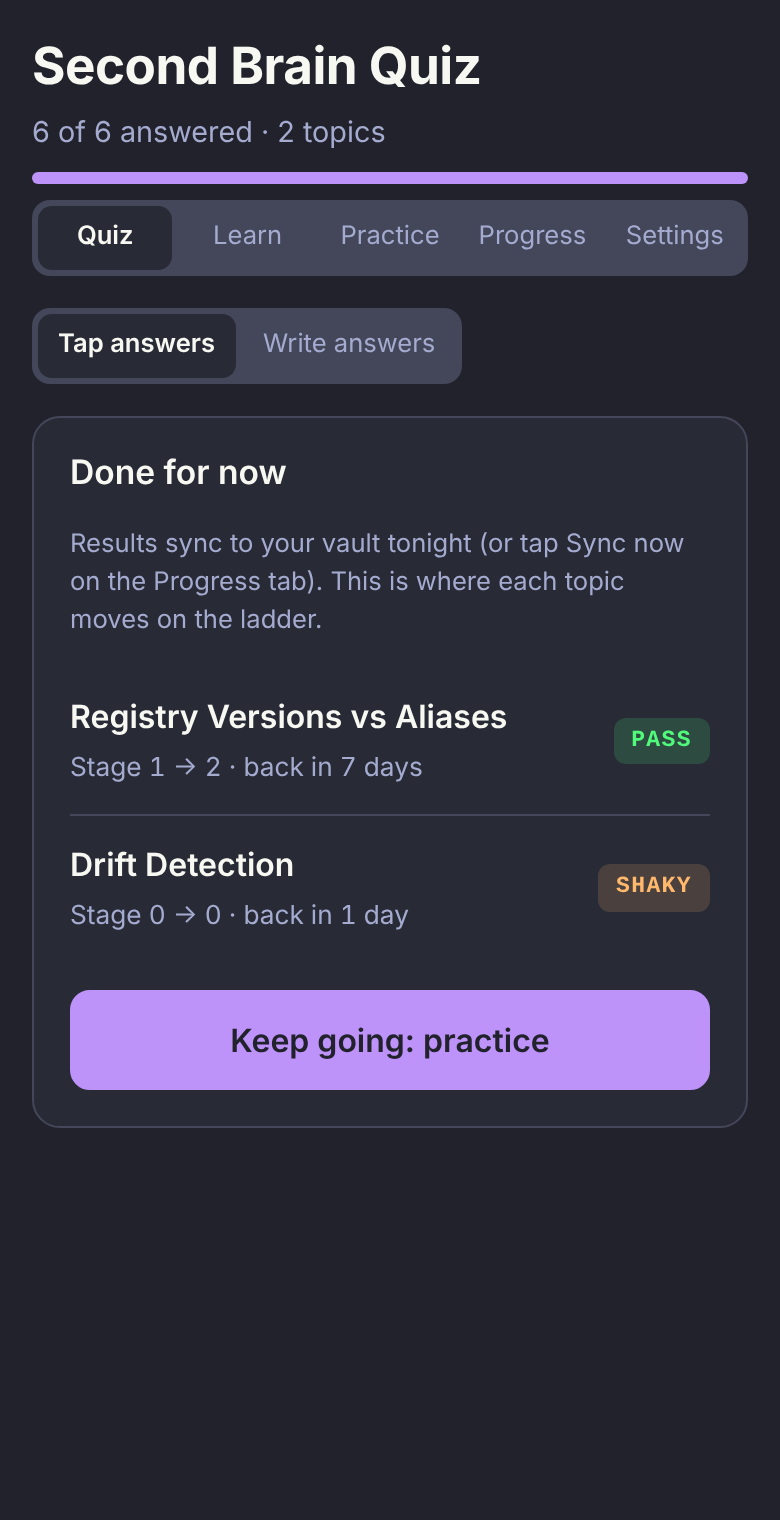
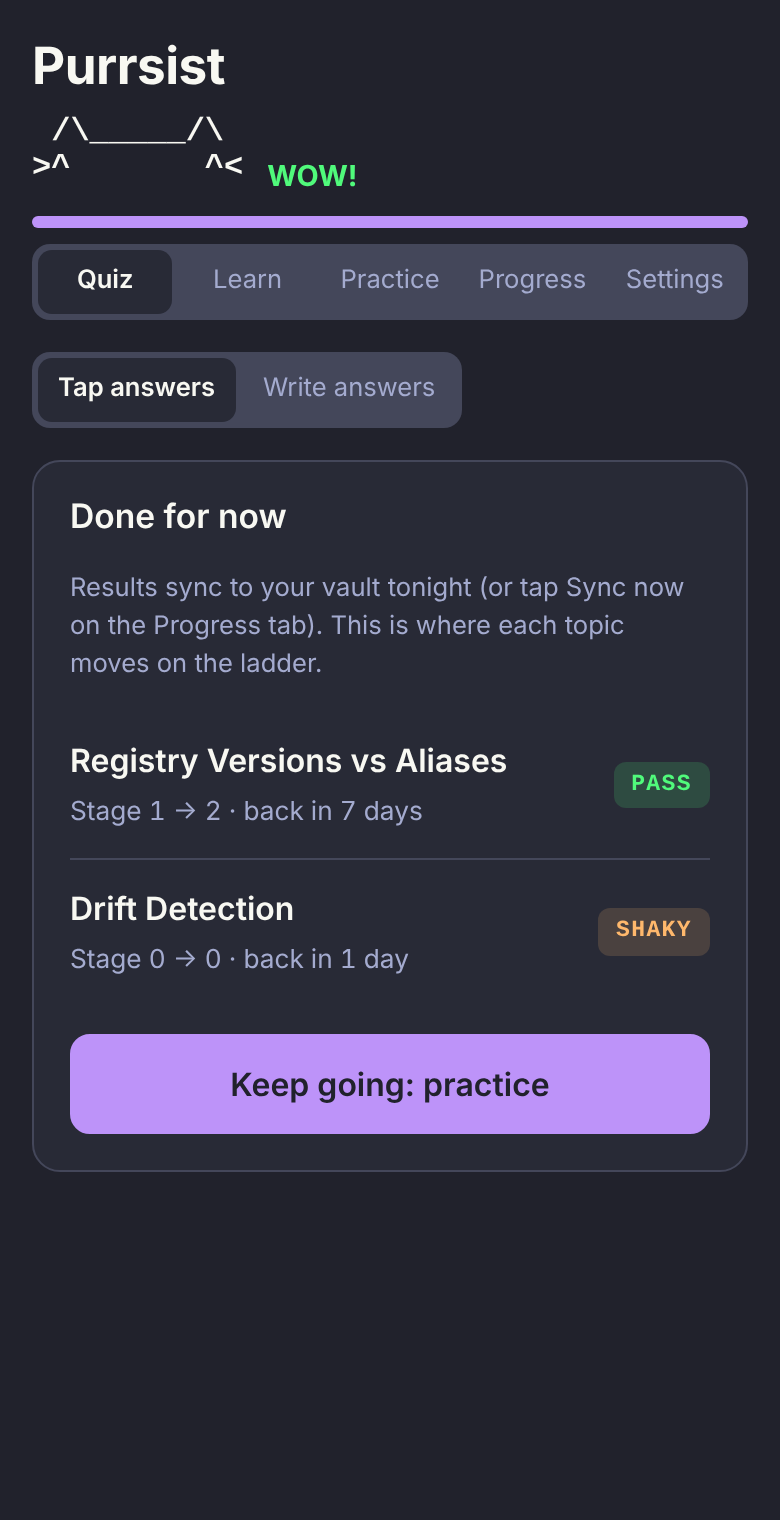
v1.17.0: Purrsist - text-art cat that reacts to answers, new name, screenshots retaken
Claude-Session: https://claude.ai/code/session_01EMdQBoW5wE4vVuz75Yu5Xb

Changed region(s): [[0.0308, 0.0309, 0.9846, 0.773], [0.8308, 0.3401, 0.8615, 0.402]]

diff --git a/quiz/quiz.html b/quiz/quiz.html
@@ -1,4 +1,4 @@
-<title>Second Brain Quiz</title>
+<title>Purrsist</title>
 <link rel="preconnect" href="https://fonts.googleapis.com">
 <link rel="stylesheet" href="https://fonts.googleapis.com/css2?family=Bricolage+Grotesque:opsz,wght@12..96,600;12..96,700&family=IBM+Plex+Sans:wght@400;500;600&family=IBM+Plex+Mono:wght@500&display=swap">
 <style>
@@ -73,6 +73,24 @@ h1{font:700 1.6rem/1.1 var(--display);margin:0;text-wrap:balance;letter-spacing:
 .flag[disabled]{opacity:1;color:var(--good);border-color:var(--good)}
 .flagmenu{display:flex;flex-wrap:wrap;gap:6px}.flagmenu button{min-height:34px;padding:6px 10px;font-size:.8rem;text-align:center}
 .pending{color:var(--warn);font-size:.82rem;margin:0}
+/* ---- the cat: monospace text art so it always lines up ---- */
+.tcat{display:flex;align-items:flex-end;gap:12px;margin:2px 0 0;min-height:2.6em}
+.tcat .art{margin:0;font:600 16px/1.15 ui-monospace,"SF Mono",Menlo,Consolas,monospace;color:var(--ink);white-space:pre;flex:none}
+.tcat .say{margin:0;font-size:.9rem;line-height:1.3;padding-bottom:1px;min-width:0;color:var(--muted)}
+.tcat .say .sub{display:inline}
+.tcat .react{display:none;font-weight:700}
+.tcat.reacting .sub{display:none}.tcat.reacting .react{display:inline}
+.c-good{color:var(--good)}.c-bad{color:var(--bad)}.c-combo{color:var(--pink)}.c-level{color:var(--warn)}.c-meh{color:var(--warn)}
+.tcat.idle .art{animation:catbob 2.6s steps(2) infinite}@keyframes catbob{50%{transform:translateY(-1px)}}
+.tcat.hop .art{animation:cathop .45s steps(3) 2}@keyframes cathop{50%{transform:translateY(-6px)}}
+.tcat.shake .art{animation:catshake .4s steps(4) 2}@keyframes catshake{25%{transform:translateX(-4px)}75%{transform:translateX(4px)}}
+.tcat.wiggle .art{animation:catwig .35s steps(2) 4}@keyframes catwig{0%{transform:rotate(-5deg)}50%{transform:rotate(5deg)}}
+.catpop{position:fixed;inset:0;display:grid;place-items:center;pointer-events:none;z-index:50}
+.catpop div{background:var(--surface);border:2px solid var(--warn);border-radius:16px;padding:18px 26px;text-align:center;box-shadow:0 10px 40px rgba(0,0,0,.35);animation:catpop 1.8s steps(8) forwards}
+.catpop pre{margin:0;font:700 26px/1.15 ui-monospace,"SF Mono",Menlo,Consolas,monospace;color:var(--ink)}
+.catpop b{display:block;margin-top:8px;font:800 1.3rem/1 ui-monospace,Menlo,monospace;color:var(--warn);letter-spacing:.06em}
+@keyframes catpop{0%{opacity:0;transform:scale(.7)}15%{opacity:1;transform:scale(1.08)}25%,80%{opacity:1;transform:scale(1)}100%{opacity:0;transform:scale(.95)}}
+@media (prefers-reduced-motion: reduce){.tcat .art,.catpop div{animation:none!important}}
 .chip{font:500 .72rem/1 var(--mono);letter-spacing:.06em;text-transform:uppercase;padding:6px 8px;border-radius:6px;background:var(--accent-soft);color:var(--pink)}
 .chip.plain{background:transparent;color:var(--muted);padding-inline:0}
 .topic{font:600 1.05rem/1.3 var(--display);margin:0}
@@ -193,8 +211,8 @@ textarea{font:inherit;width:100%;box-sizing:border-box;min-height:120px;border-r
 
 <div class="wrap">
   <header>
-    <h1>Second Brain Quiz</h1>
-    <p class="sub" id="sub">Loading your questions…</p>
+    <h1>Purrsist</h1>
+    <div class="tcat idle" id="tcat"><pre class="art" id="catart" aria-hidden="true"></pre><p class="say"><span class="sub" id="sub">Loading your questions…</span><span class="react" id="catsay" aria-live="polite"></span></p></div>
     <p class="pending" id="pending" hidden></p>
     <div class="bar" aria-hidden="true"><i id="prog"></i></div>
     <div class="mode tabs" id="tabs" role="tablist" aria-label="View">
@@ -283,6 +301,7 @@ function render() {
   const answered = Q.length - pending.length;
   const topics = [...new Set(Q.map(q => q.topic))];
   document.getElementById("prog").style.width = Q.length ? (answered / Q.length * 100) + "%" : "0";
+  catMood(Q.length && !pending.length ? "sleepy" : "idle");
   document.getElementById("sub").textContent = Q.length
     ? `${answered} of ${Q.length} answered · ${topics.length} topic${topics.length === 1 ? "" : "s"}`
     : "Nothing loaded yet";
@@ -514,9 +533,35 @@ function flagBtn(q, card) {
   return b;
 }
 
+// ---------- The cat: reacts to answers, then goes back to showing your status ----------
+const CAT_EYES = { idle:"•  •", sleepy:"-  -", right:"^  ^", almost:"o  o", wrong:"T  T", combo:"*  *", timeout:"O  O", level:"★  ★", cleared:"^  ^" };
+const CAT_SAY = { right:["WOW!", "nice one", "big brain", "yes!!"], almost:["nearly!", "so close"], wrong:["oops", "nearly", "we go again"],
+  combo:["x3 combo!", "on fire", "unstoppable"], timeout:["too slow!"], level:["LVL UP!"], cleared:["cleared! ✓"] };
+const CAT_CLS = { right:"c-good", almost:"c-meh", wrong:"c-bad", combo:"c-combo", timeout:"c-bad", level:"c-level", cleared:"c-good" };
+const CAT_ANIM = { right:"hop", almost:"shake", wrong:"shake", combo:"wiggle", timeout:"shake", level:"hop", cleared:"hop" };
+const catArt = eyes => ` /\\_____/\\\n>${eyes.replace(/  /, "       ")}<`;
+let catBase = "idle", catTimer = null;
+function catDraw(mood) { const a = document.getElementById("catart"); if (a) a.textContent = catArt(CAT_EYES[mood] || CAT_EYES.idle); }
+function catMood(m) { catBase = m; if (!document.getElementById("tcat").classList.contains("reacting")) catDraw(m); }
+function catReact(mood) {
+  const box = document.getElementById("tcat"), say = document.getElementById("catsay");
+  clearTimeout(catTimer);
+  const pool = CAT_SAY[mood] || [""];
+  say.textContent = pool[Math.floor(Math.random() * pool.length)]; say.className = "react " + (CAT_CLS[mood] || "");
+  box.className = "tcat reacting " + (CAT_ANIM[mood] || "idle"); catDraw(mood);
+  if (mood === "level") catBig("LVL UP!");
+  catTimer = setTimeout(() => { box.className = "tcat idle"; catDraw(catBase); }, 1600);
+}
+function catBig(text) {                       // milestone pop-up in the middle of the screen
+  const w = el("div", "catpop"), d = el("div"), pre = el("pre"); pre.textContent = catArt(CAT_EYES.level);
+  d.append(pre, el("b", null, text)); w.append(d); document.body.append(w); setTimeout(() => w.remove(), 1900);
+}
+catDraw("idle");
+
 async function save(q, data) {
   shownId = q.id;
   A.set(q.id, data); lastKey = ""; render();              // show feedback straight away
+  catReact(data.verdict === "correct" ? "right" : data.verdict === "partial" ? "almost" : "wrong");
   try {
     await put("answers", q.id, { ...data, topic: q.topic, page: q.page || "", kind: q.kind, at: new Date().toISOString() });
     logDay(data.verdict, Number(q.stage) || 0);
@@ -541,8 +586,9 @@ const activeOn = d => { const x = dayOf(d); return !!x && (x.n > 0 || x.checked)
 function writeDay(patch) {
   const now = new Date(), mk = dkey(now).slice(0, 7), dd = pad(now.getDate());
   const cur = { n: 0, c: 0, p: 0, w: 0, xp: 0, ...(dayOf(now) || {}) };
-  const next = patch(cur);
+  const next = patch(cur), lvl0 = totals().level;
   ACT[mk] = { days: { ...(ACT[mk]?.days || {}), [dd]: next } };
+  if (totals().level > lvl0) setTimeout(() => catReact("level"), 900);
   if (tab === "progress") renderProgress();
   writeChain = writeChain.then(() => put("activity", mk, { days: { [dd]: next } }, "day").catch(() => {}));
 }
@@ -684,8 +730,8 @@ tabBtns.forEach(b => b.onclick = () => showTab(b.dataset.t));
 showTab("quiz");
 
 // ---------- Practice: one question at a time, swap animation, hard mode, icon ----------
-const VERSION = "1.15.1";
-document.getElementById("version").textContent = `Second Brain Kit v${VERSION}`;
+const VERSION = "1.17.0";
+document.getElementById("version").textContent = `Purrsist v${VERSION} · Second Brain Kit`;
 const ICONS = ["🧠", "🦉", "🐉", "🚀", "⚡", "🔥", "🐺", "🦊", "🐙", "🤖", "🛰", "🗝"];
 let POOL = [], bag = [], pfilter = "all", combo = 0, practiceStarted = false, current = null, hard = false;
 try { hard = localStorage.getItem("hard") === "1"; } catch (e) {}
@@ -776,6 +822,7 @@ function answer(q, i, c, b, opts, stage) {
   if (b && !ok) b.classList.add("wrong");
   combo = ok ? combo + 1 : 0;
   markMissed(q.key, !ok);
+  catReact(ok ? (combo >= 3 ? "combo" : "right") : (i === -1 ? "timeout" : "wrong"));
   const delta = practiceXP(ok, stage);
   writeDay(d => ({ ...d, n: d.n + 1, [verdict[0]]: (d[verdict[0]] || 0) + 1, xp: d.xp + delta }));
   c.classList.add(ok ? "good" : "bad");
@@ -938,6 +985,7 @@ function check(L) {
       opts.querySelectorAll("button").forEach(x => { x.disabled = true; if (Number(x.dataset.i) === Number(q.correct)) x.classList.add("right"); });
       if (!ok) b.classList.add("wrong");
       lstreak = ok ? lstreak + 1 : 0; markMissed(q.key, !ok); dd.replaceWith(dots());
+      catReact(ok ? (lstreak >= NEED ? "cleared" : "right") : "wrong");
       const delta = practiceXP(ok, stage) + (ok && lstreak >= NEED ? 10 : 0);
       writeDay(d => ({ ...d, n: d.n + 1, [verdict[0]]: (d[verdict[0]] || 0) + 1, xp: d.xp + delta }));
       put("answers", `l-${Date.now()}-${Math.random().toString(36).slice(2, 7)}`,

diff --git a/README.md b/README.md
@@ -1,8 +1,13 @@
-# Second Brain Kit
+# Purrsist
 
-A learning system that stops you forgetting what you learn. Claude keeps your notes in Obsidian, quizzes you on your phone on a spaced-repetition schedule, and puts reminders in your calendar.
+```
+ /\_____/\
+>•       •<   the cat that won't let you forget what you learn
+```
 
-Built on Karpathy's "LLM wiki" idea and the CoderCo *Learn it so it sticks* method: recall first, explain it like you're teaching, review on days 1 · 3 · 7 · 14 · 31.
+**Purrsist** (the Second Brain Kit) is a learning system that stops you forgetting what you learn. Claude keeps your notes in Obsidian, quizzes you on your phone on a spaced-repetition schedule, and puts reminders in your calendar.
+
+Built on [Hussein Malki's obsidian-llm-brain](https://github.com/Husseinmalki/obsidian-llm-brain) (the vault, `CLAUDE.md` schema and index/log approach), Karpathy's "LLM wiki" idea and the CoderCo *Learn it so it sticks* method: recall first, explain it like you're teaching, review on days 1 · 3 · 7 · 14 · 31.
 
 > **Install:** open a Claude Cowork task linked to your computer and say *"Set up https://github.com/smir22/second-brain-kit for me"*. Already set up? Type **`/update-second-brain`**.
 >
@@ -13,6 +18,7 @@ Built on Karpathy's "LLM wiki" idea and the CoderCo *Learn it so it sticks* meth
 - **Learn:** your weak topics as step-by-step lessons (the problem, the idea, your own code line by line, your past mistakes), then 2 right in a row to clear.
 - **Practice:** endless questions from your whole bank, XP, combos and a timed hard mode.
 - **Progress:** streak, levels, a GitHub-style heatmap and mastery across the ladder.
+- **The cat:** sits under the title showing your status and reacts to every answer (WOW! / oops / x3 combo! / LVL UP!).
 - **Settings:** 12 themes and your own icon.
 - **On your Mac:** `/ingest` after you learn something, `import` for older material, a nightly sync that moves topics up the ladder, calendar reminders, and `/update-second-brain` for new versions.
 

diff --git a/CHANGELOG.md b/CHANGELOG.md
@@ -2,6 +2,14 @@
 
 The quiz page shows its version under **Settings → About**. To update an existing setup, type `/update-second-brain` in Cowork (or paste [`UPDATE_PROMPT.md`](UPDATE_PROMPT.md) if you set up before v1.14).
 
+## 1.17.0
+- The app is now called **Purrsist**. All screenshots retaken.
+- Update needs: nothing extra.
+
+## 1.16.0
+- **The cat:** a text-art cat under the title shows your status and reacts to each answer in Quiz, Learn and Practice (right, nearly, wrong, combo, timeout, cleared), with a big pop-up on level-up.
+- Update needs: nothing extra.
+
 ## 1.15.1
 - Full command list in the README and in `Home.md` (adds `/ingest`, `write lessons`, `refresh banks`, `publish banks for practice`, `sync quiz`, `/update-second-brain`).
 - Update needs: replace the "Say to Claude" list in your `Home.md` with the one in `template/Home.md`.
